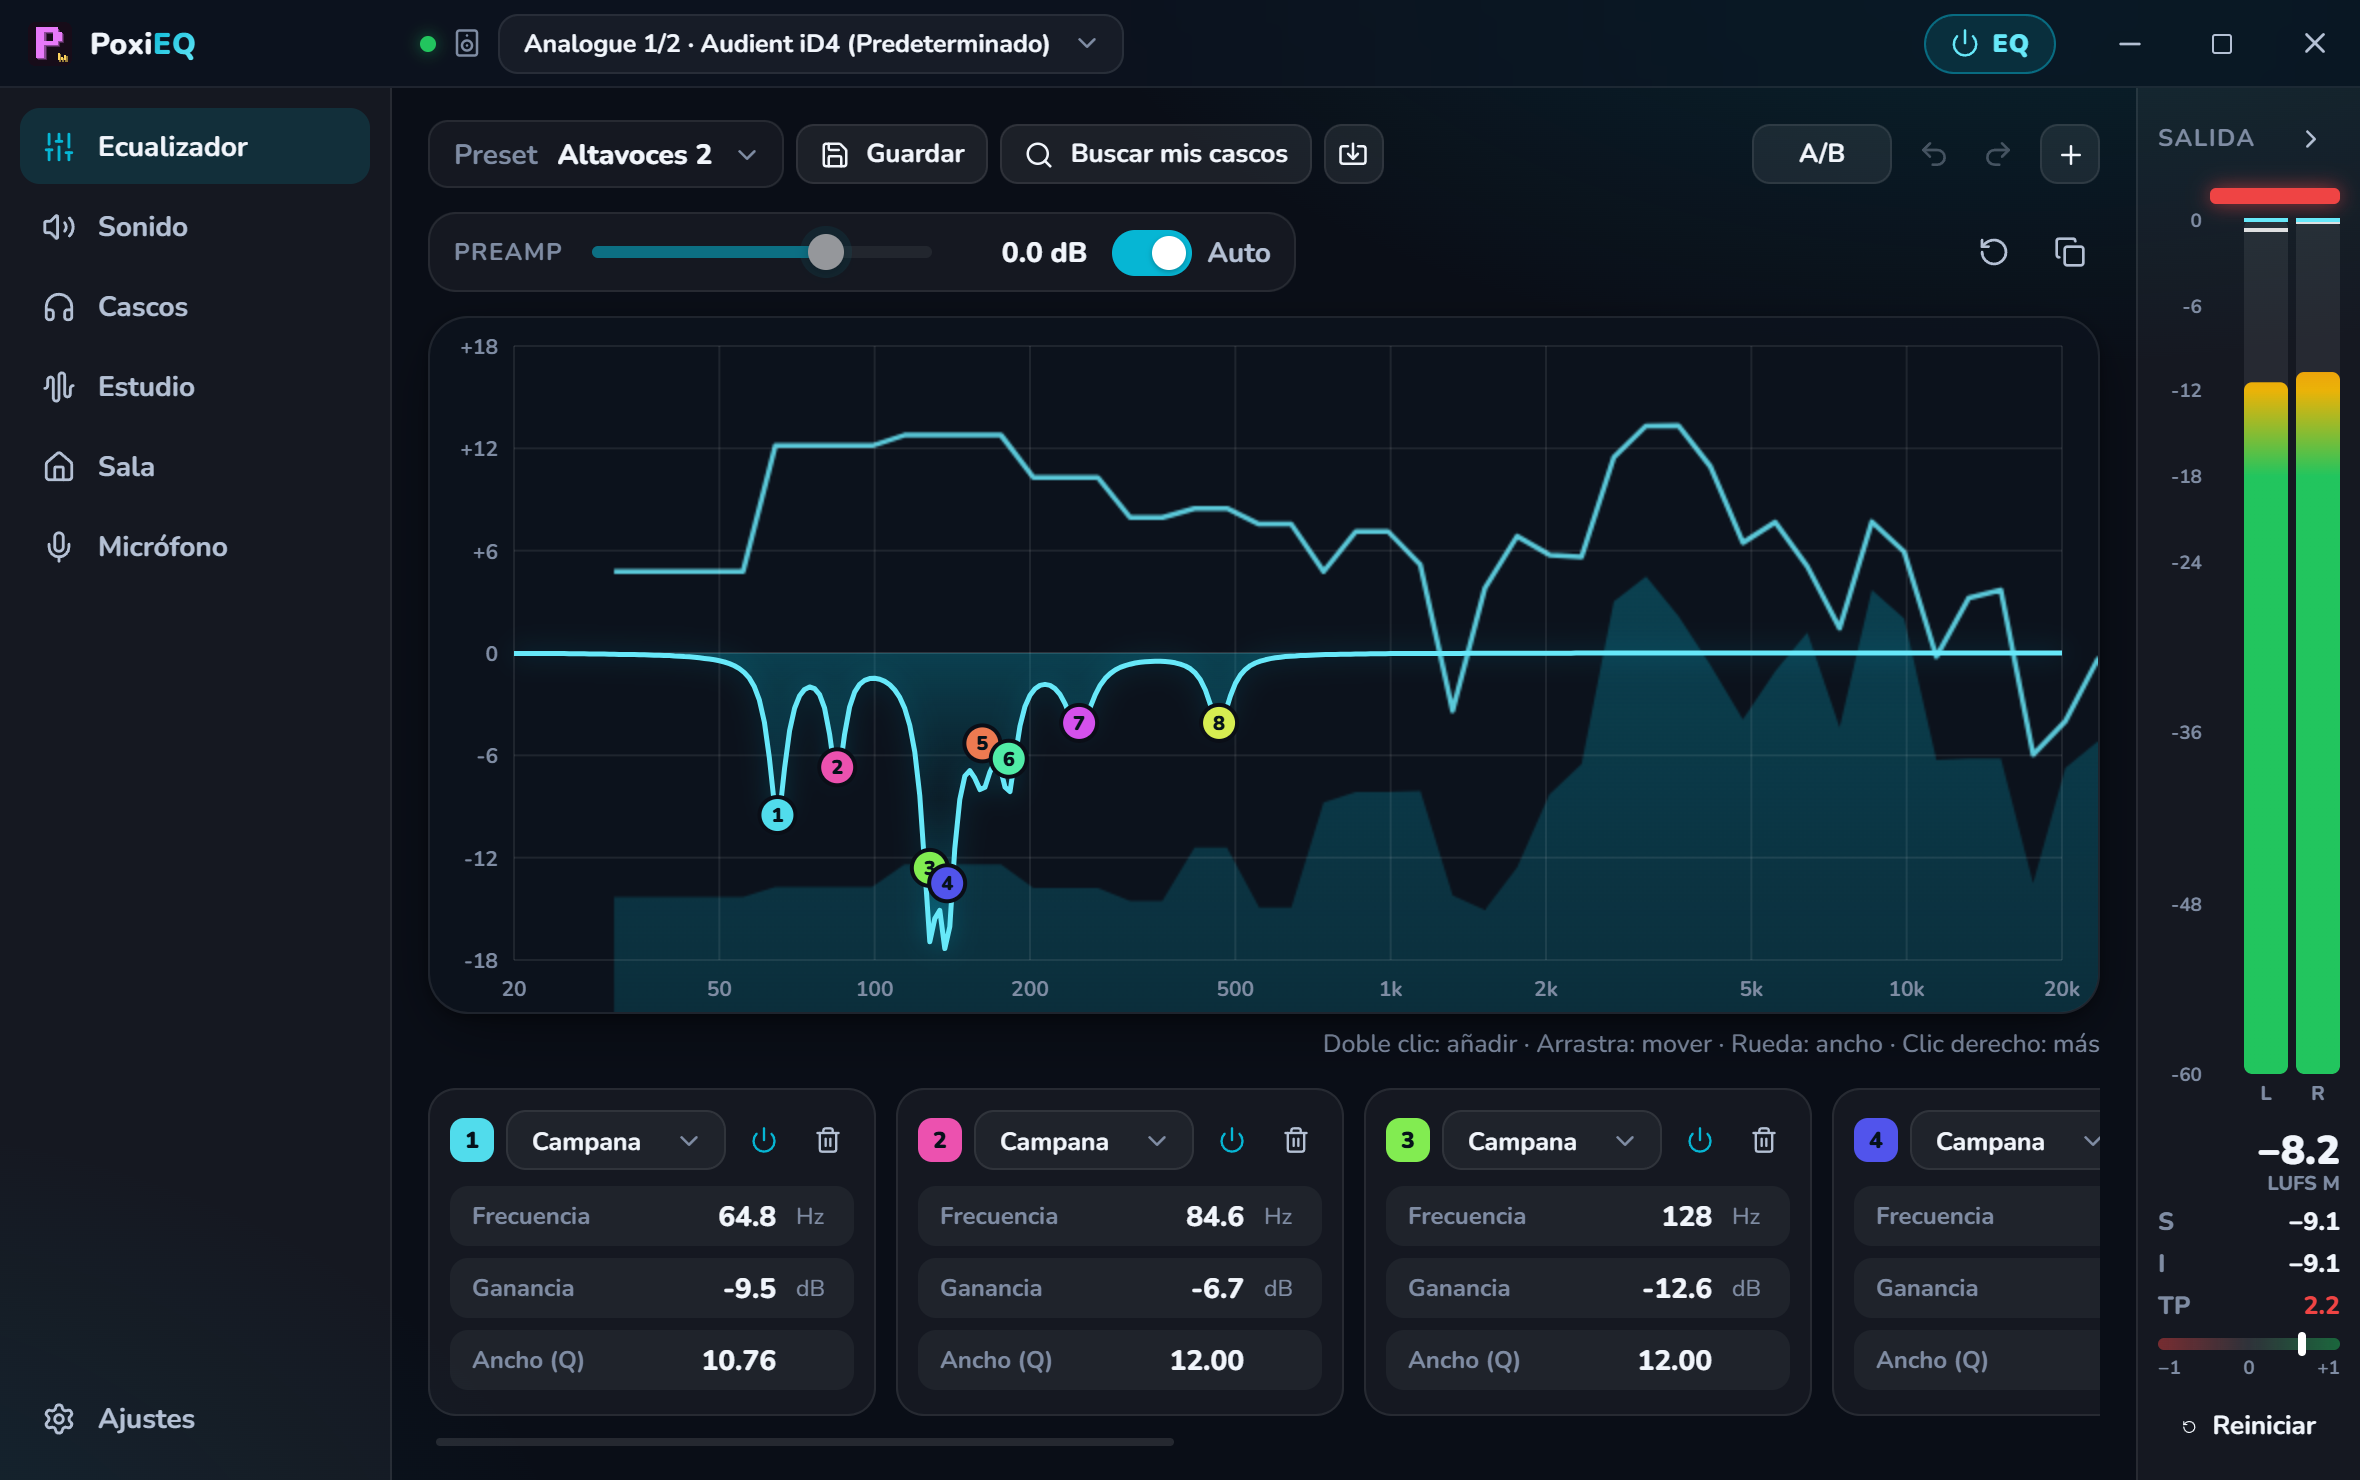
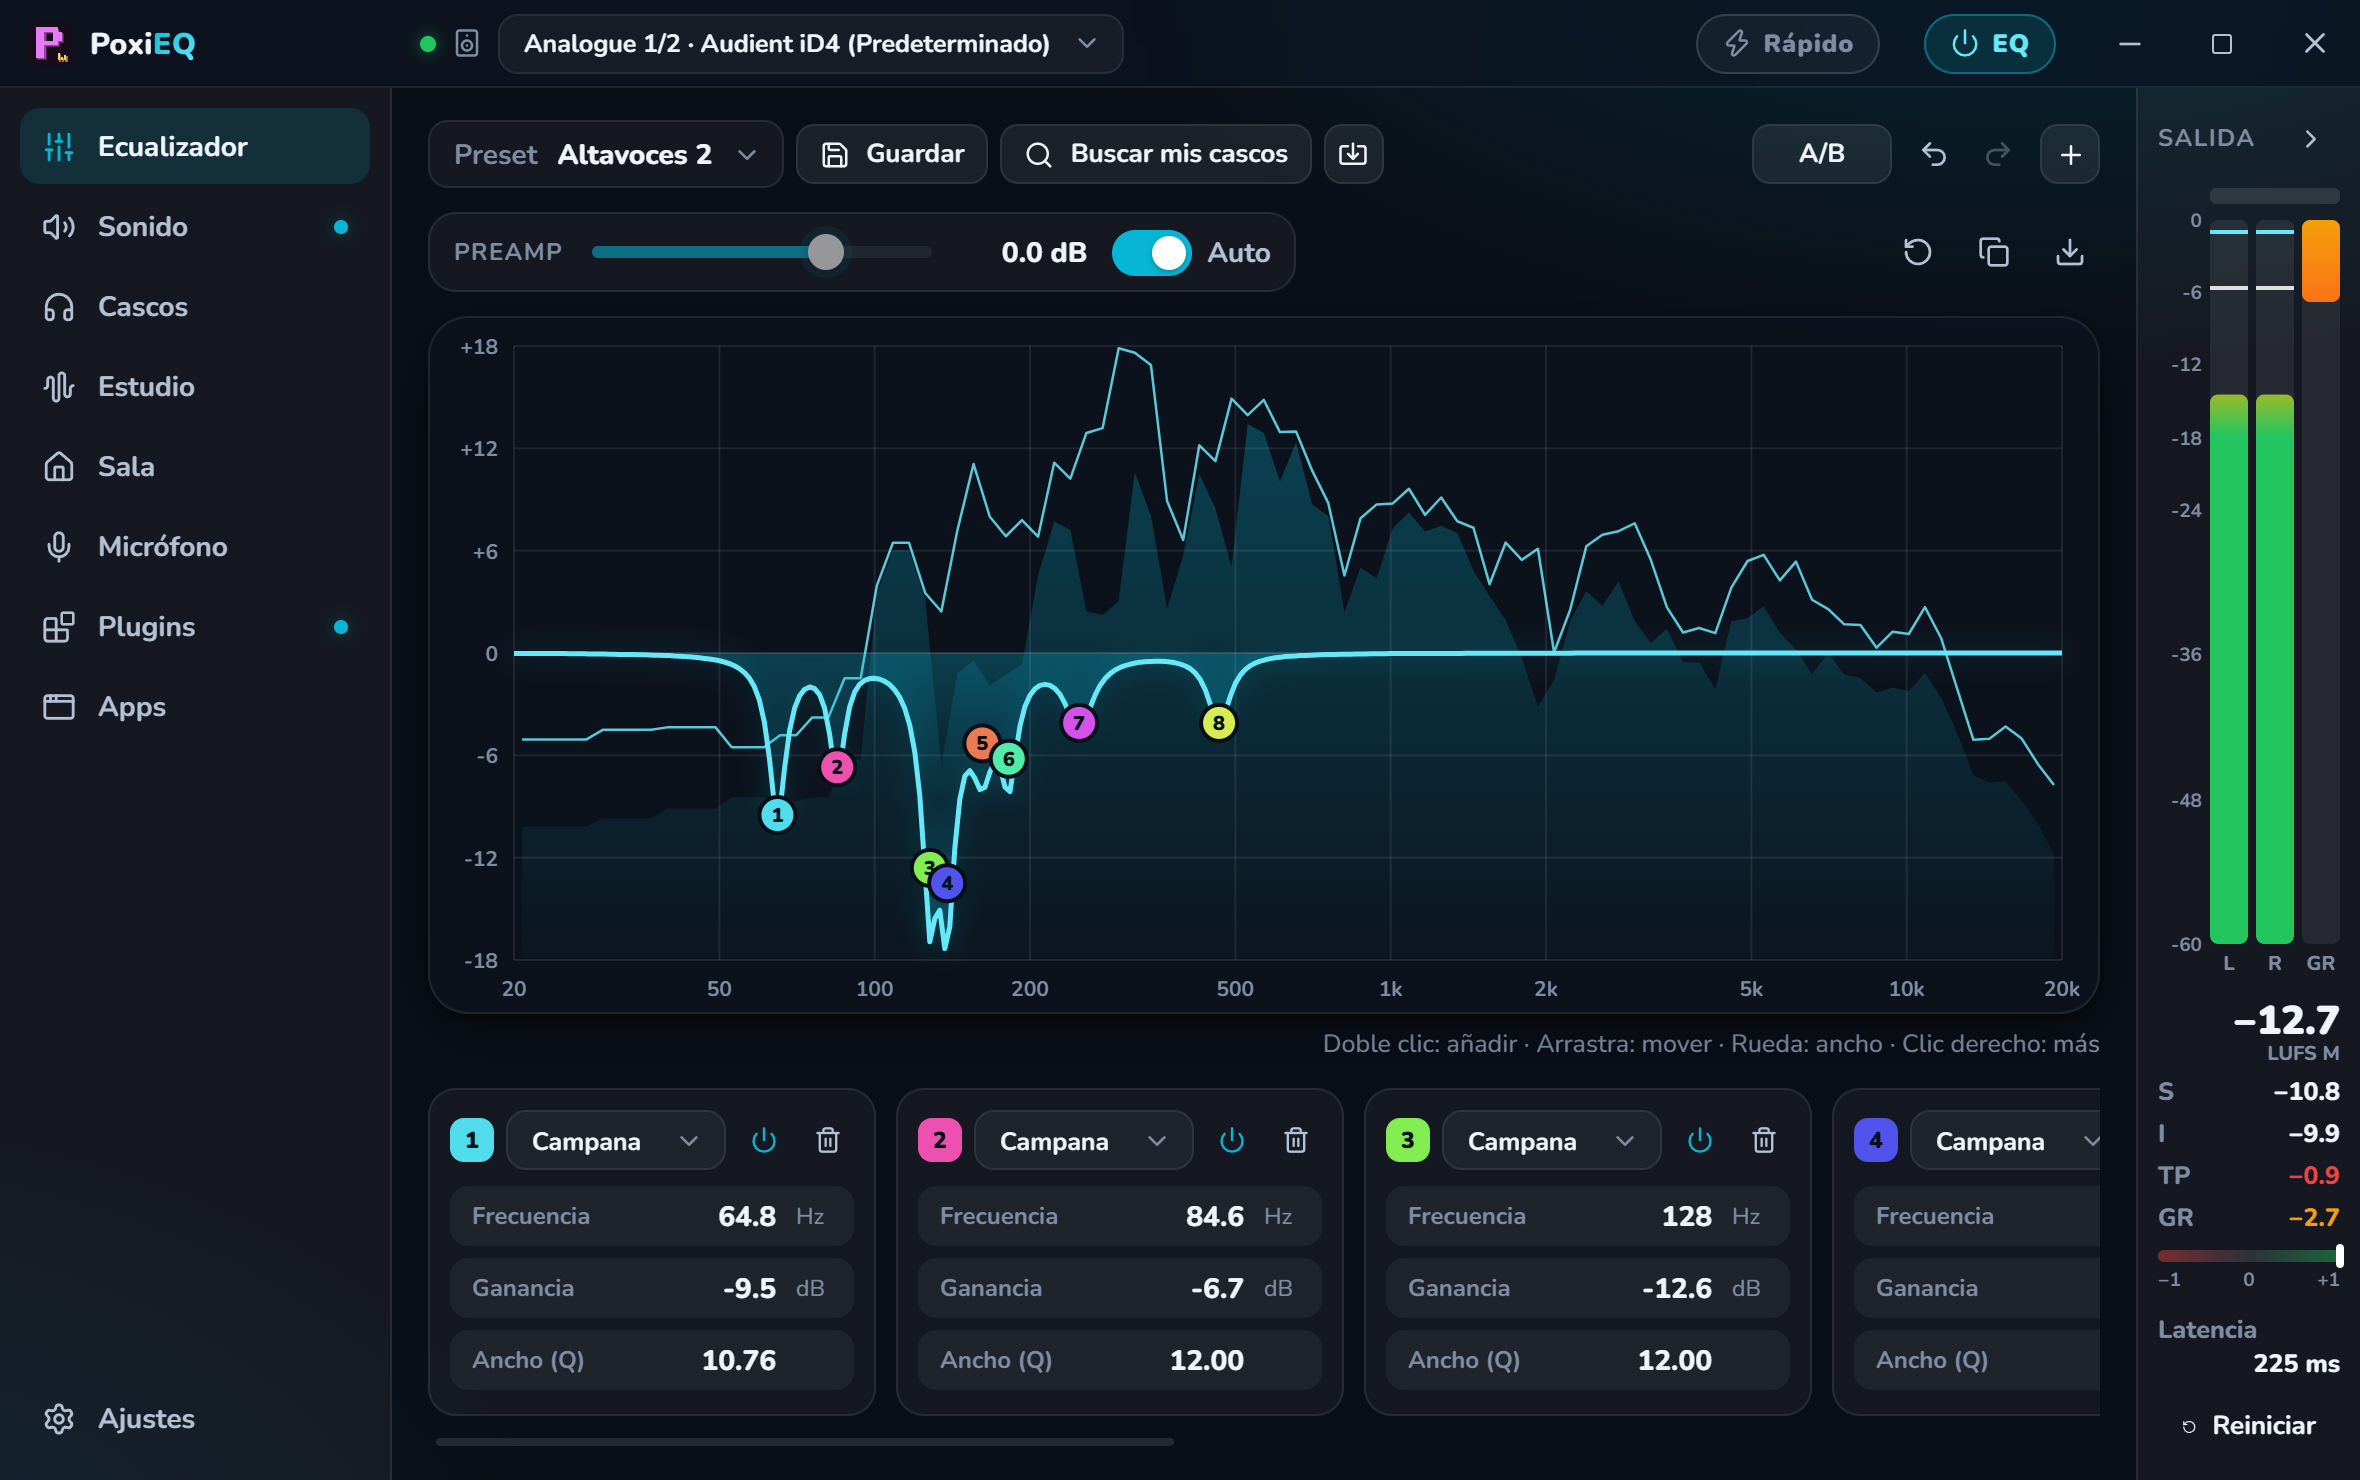
docs: capturas nuevas del README
Ecualizador, Sonido, Cascos, Estudio y Sala al día, y nuevas de Plugins, Apps y Modo rápido (sale la de Atajos).

diff --git a/README.md b/README.md
@@ -48,15 +48,23 @@ de Windows; PoxiEQ lo instala, lo activa y lo esconde por ti con **un clic**.
   </tr>
   <tr>
     <td align="center"><sub>🎧 Busca tus cascos entre más de 8.000 modelos, crossfeed y altavoces virtuales</sub></td>
-    <td align="center"><sub>🎛 Mono, side, solo L / R, polaridad y cómo suena tu mezcla en un móvil o un coche</sub></td>
+    <td align="center"><sub>🎛 Mono, side, polaridad y cómo suena tu mezcla en un móvil, un coche o un club</sub></td>
+  </tr>
+  <tr>
+    <td width="50%"><img src=".assets/plugins.png" alt="Plugins: tu cadena de VST2 y VST3" /></td>
+    <td width="50%"><img src=".assets/apps.png" alt="Apps: salida por app, atenuación y mezclador" /></td>
+  </tr>
+  <tr>
+    <td align="center"><sub>🔌 Tus plugins VST2 y VST3 en la cadena, con su ventana de verdad y su latencia</sub></td>
+    <td align="center"><sub>🎯 Cada app con su preset y su salida, y el resto baja cuando hablan en Discord</sub></td>
   </tr>
   <tr>
     <td width="50%"><img src=".assets/sala.png" alt="Corrección de sala con el resultado medido" /></td>
-    <td width="50%"><img src=".assets/atajos.png" alt="Atajos de teclado a tu gusto" /></td>
+    <td width="50%"><img src=".assets/rapido.png" alt="Modo rápido: ventanita con botones de presets" /></td>
   </tr>
   <tr>
-    <td align="center"><sub>📐 Corrección de sala: mide tus altavoces y corta las resonancias de graves</sub></td>
-    <td align="center"><sub>⌨ Bypass y nueve presets con el atajo que tú grabes</sub></td>
+    <td align="center"><sub>📐 Corrección de sala, calibración del micro y convolución</sub></td>
+    <td align="center"><sub>⚡ Modo rápido: tus presets en botones grandes y, al pulsar, a la bandeja</sub></td>
   </tr>
 </table>
 
